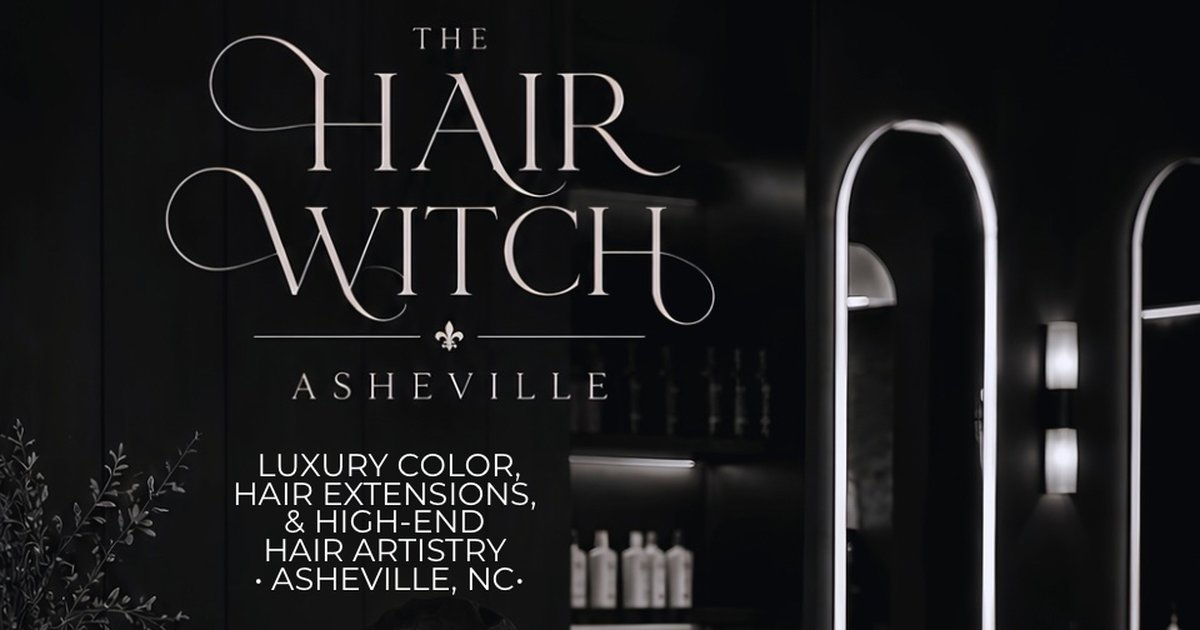
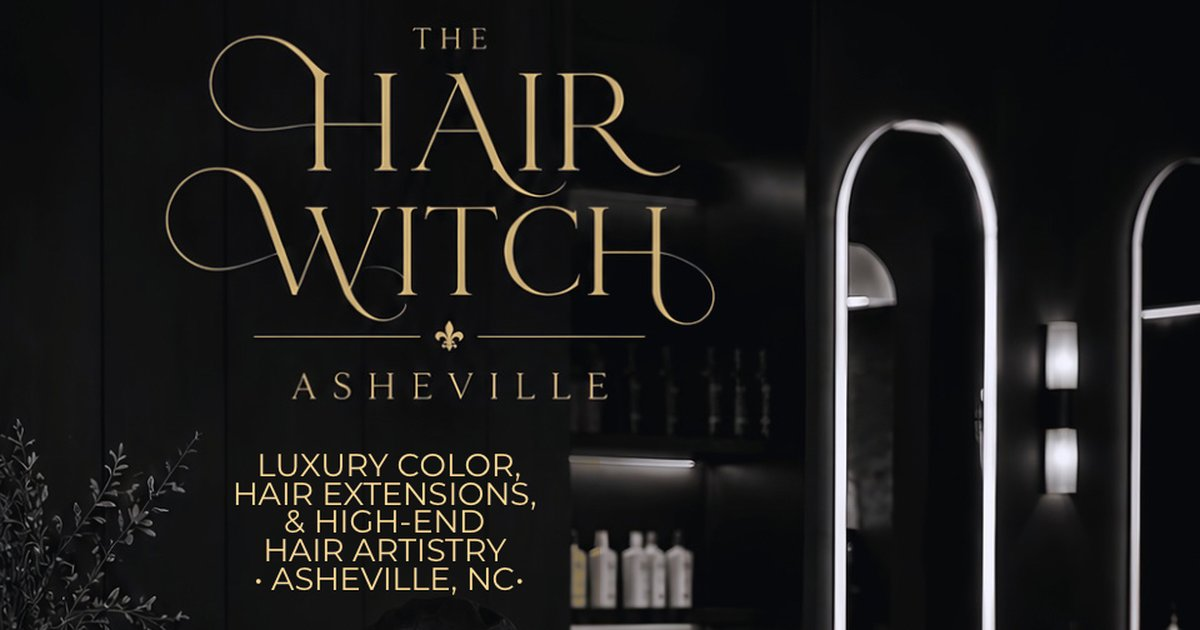
Gold-text hero image (baked wordmark+subtitle recolored); revert site-wide gold text; gold og cards

diff --git a/assets/js/shim.js b/assets/js/shim.js
@@ -339,10 +339,6 @@
     "body{background:#000!important;}" +
     ".all-magic-buttons{display:none!important;}" +
     "#jarallax-container-0,.jarallax-container{display:none!important;}" +
-    "#s123ModulesContainer, #s123ModulesContainer :is(p,li,span,em,strong,td,label,blockquote){color:#e7d9b8!important;}" +
-    "#s123ModulesContainer :is(h1,h2,h3,h4,h5,.page_header_style){color:#cfa85e!important;}" +
-    "#s123ModulesContainer a{color:#e9cf9a!important;}" +
-    "#mainNav a,#mainNav li,#mainNavMobile a,#mainNavMobile button,#mainNavMobile span{color:#cfa85e!important;}" +
     "#hw-award-hero{background:#000;padding:0 0 6px;}" +
     "#hw-award-hero .hw-ah-canvas{position:relative;overflow:hidden;max-width:780px;margin:0 auto;}" +
     "#hw-award-hero .hw-ah-photo{display:block;width:100%;height:auto;}" +
@@ -450,8 +446,8 @@
   hero.id = "hw-award-hero";
   hero.innerHTML =
     '<div class="hw-ah-canvas">' +
-      '<img class="hw-ah-bg" src="images/site123/s123-hero-main.png" alt="" aria-hidden="true">' +
-      '<img class="hw-ah-photo" src="images/site123/s123-hero-main.png" alt="The Hair Witch — Asheville. Luxury color, hair extensions and high-end hair artistry.">' +
+      '<img class="hw-ah-bg" src="images/site123/s123-hero-main-gold.png" alt="" aria-hidden="true">' +
+      '<img class="hw-ah-photo" src="images/site123/s123-hero-main-gold.png" alt="The Hair Witch — Asheville. Luxury color, hair extensions and high-end hair artistry.">' +
       '<div class="hw-ah-scrimtr"></div><div class="hw-ah-scrimb"></div><div class="hw-ah-frame"></div>' +
       '<div class="hw-ah-hang">' +
         '<div class="hw-ah-thread"></div><div class="hw-ah-knot"></div>' +

diff --git a/award-concept.html b/award-concept.html
@@ -109,7 +109,7 @@
   </div>
 
   <div class="canvas">
-    <img class="photo" src="images/site123/s123-hero-main.png" alt="The Hair Witch — Asheville. Luxury color, hair extensions and high-end hair artistry.">
+    <img class="photo" src="images/site123/s123-hero-main-gold.png" alt="The Hair Witch — Asheville. Luxury color, hair extensions and high-end hair artistry.">
     <div class="scrim-tr"></div>
     <div class="scrim-b"></div>
     <div class="frame"></div>

diff --git a/award-variants.html b/award-variants.html
@@ -39,7 +39,7 @@
 </style>
 </head>
 <body>
-<div class="wall"><img src="images/site123/s123-hero-main.png" alt="" aria-hidden="true"></div>
+<div class="wall"><img src="images/site123/s123-hero-main-gold.png" alt="" aria-hidden="true"></div>
 <div class="room">
   <h1>Choose Her Medal</h1>
 